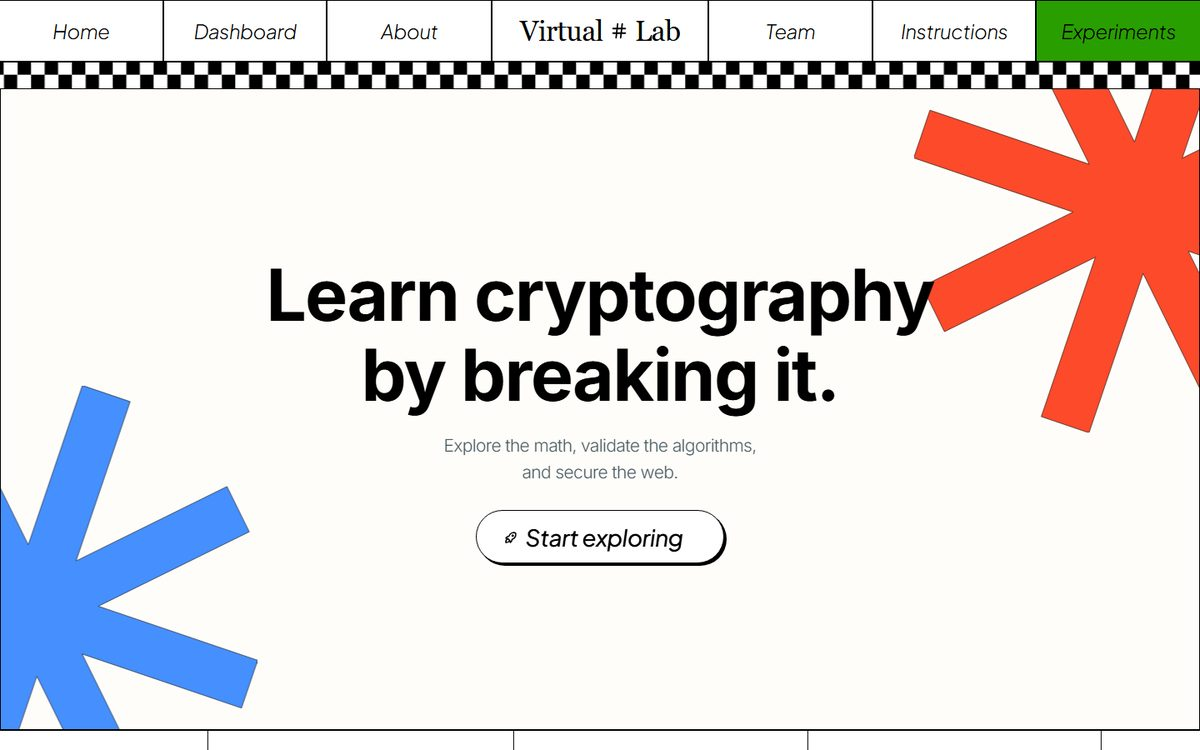
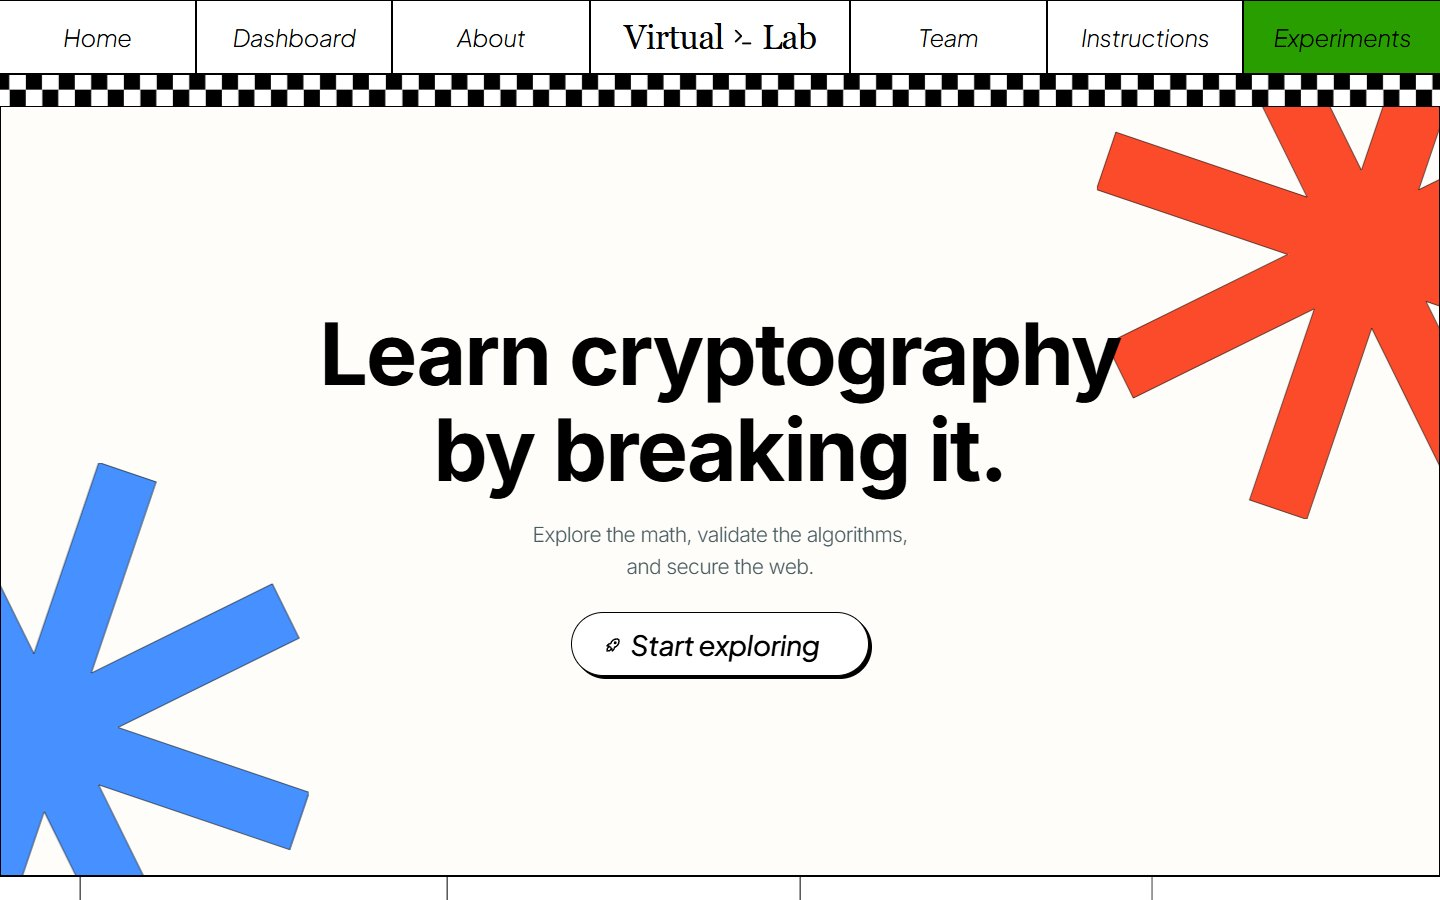
Refresh all project screenshots with consistent full-hero captures; update SpaceScope link

Changed region(s): [[0.0, 0.0307, 1.0, 0.1227]]

diff --git a/index.html b/index.html
@@ -318,7 +318,7 @@
           </article>
 
           <article class="card" data-card data-project="space">
-            <a class="card__media" href="https://space-scope-lqli.vercel.app" target="_blank" rel="noopener" tabindex="-1">
+            <a class="card__media" href="https://space-scope-sb.vercel.app/" target="_blank" rel="noopener" tabindex="-1">
               <img src="img/spacescope.jpg" alt="SpaceScope landing page" loading="lazy" width="1200" height="750" />
             </a>
             <div class="card__body">
@@ -329,7 +329,7 @@
               <p class="card__tags">React, public space APIs</p>
               <div class="card__links">
                 <button type="button" class="more" data-open="space">Details</button>
-                <a href="https://space-scope-lqli.vercel.app" target="_blank" rel="noopener">Live demo</a>
+                <a href="https://space-scope-sb.vercel.app/" target="_blank" rel="noopener">Live demo</a>
                 <a href="https://github.com/WillyEverGreen/Space_Scope" target="_blank" rel="noopener">Code</a>
               </div>
             </div>
@@ -651,7 +651,7 @@
       <li>Built on public space APIs with a fast, mobile-friendly interface.</li>
     </ul>
     <p class="d-tags">React, public space APIs</p>
-    <p class="d-links"><a href="https://space-scope-lqli.vercel.app" target="_blank" rel="noopener">Live demo</a><a href="https://github.com/WillyEverGreen/Space_Scope" target="_blank" rel="noopener">GitHub</a></p>
+    <p class="d-links"><a href="https://space-scope-sb.vercel.app/" target="_blank" rel="noopener">Live demo</a><a href="https://github.com/WillyEverGreen/Space_Scope" target="_blank" rel="noopener">GitHub</a></p>
   </template>
 
   <template id="t-journi">
